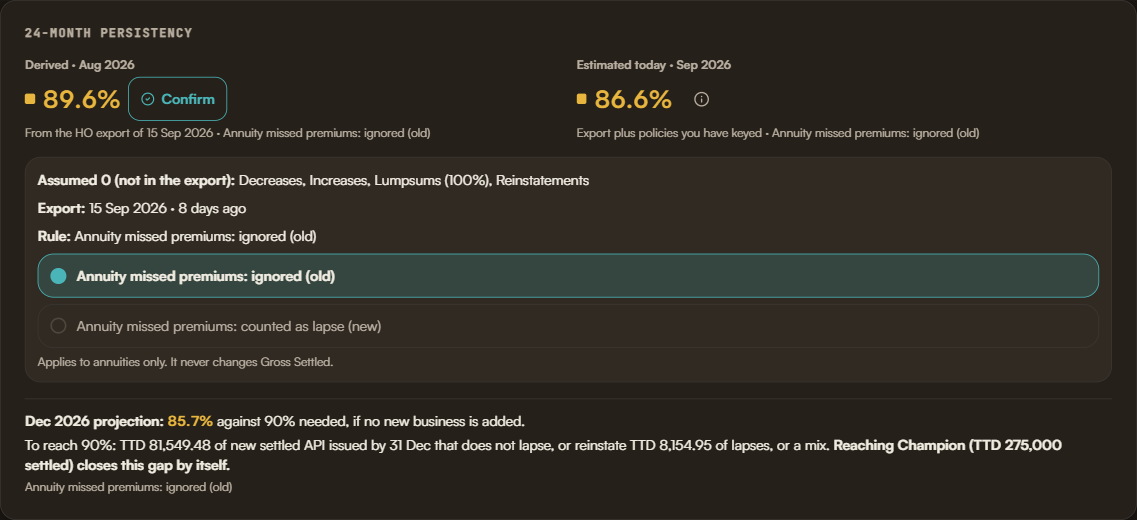
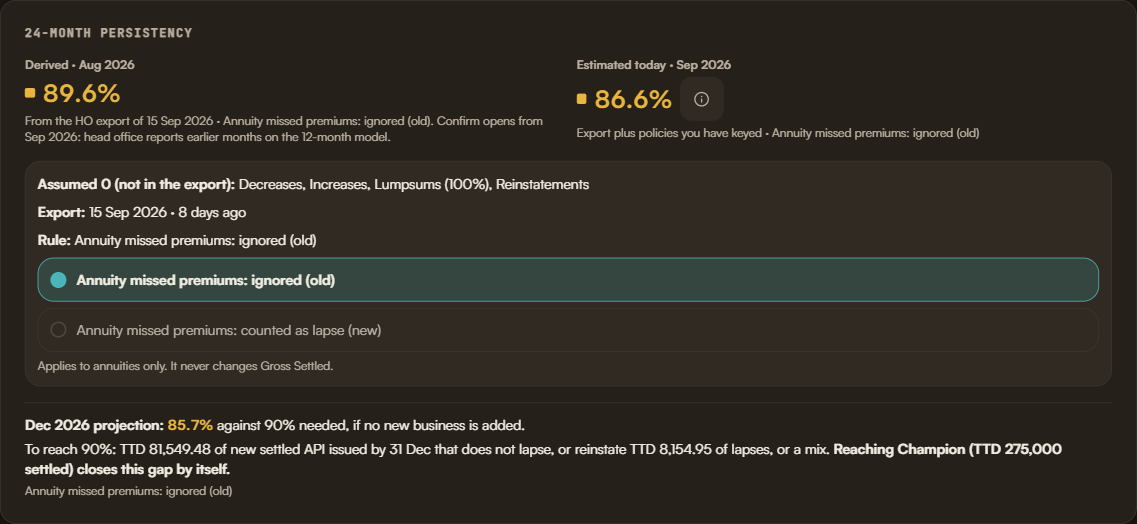
fix(persistency): Confirm only on 24-month-model months (dispatcher ruling B)
The derived figure is always a 24-month-window figure, but head office reports
months before September 2026 on the 12-month model, so the two cannot be checked
against each other. `derived.confirmable` is now `isTwentyFourMonthModel(month)`:
the tab hides Confirm for August and says why, and the sheet refuses to render
for a non-confirmable month.

Smoke re-run, read-only, light + dark: 24 PASS / 0 FAIL (Confirm absent on
August, reason shown). Screenshots refreshed.

diff --git a/src/components/persistency/__tests__/PersistencyOutlook.test.jsx b/src/components/persistency/__tests__/PersistencyOutlook.test.jsx
@@ -28,6 +28,9 @@ const BOOK = [
   imported('P-C1', '2025-06-10', 'settled', 161581.20),
   imported('P-C2', '2025-06-12', 'lapsed', 27014.52),
 ];
+// The same book on an October export: the derived month is September, the
+// first month on the 24-month model, so it can be confirmed.
+const BOOK_OCT = BOOK.map((d) => ({ ...d, exportDate: '2026-10-15' }));
 const GATE = { monthKey: '2026-12', threshold: 90 };
 const outlookOf = (records = []) => buildPersistencyOutlook({
   policies: BOOK, records, today: '2026-09-23', gate: GATE,
@@ -50,12 +53,15 @@ const CAMPAIGN = {
 beforeEach(() => { savePersistency.mockClear(); });
 
 describe('PersistencyOutlookHero', () => {
-  it('shows Derived Aug 89.6% with Confirm, Estimated today 86.6%, Dec 85.7% and the gap sentence', () => {
-    render(<PersistencyOutlookHero outlook={outlookOf()} canConfirm onConfirm={() => {}} />);
+  it('shows Derived Aug 89.6% (no Confirm, with the reason), Estimated today 86.6%, Dec 85.7% and the gap sentence', () => {
+    const o = outlookOf();
+    render(<PersistencyOutlookHero outlook={o} canConfirm={o.derived.confirmable} onConfirm={() => {}} />);
     expect(screen.getByTestId('persistency-outlook-derived').textContent).toContain('Derived · Aug 2026');
     expect(screen.getByTestId('persistency-outlook-derived-pct').textContent).toBe('89.6%');
     expect(screen.getByTestId('persistency-outlook-derived-pct').className).toContain('text-warning-ink');
-    expect(screen.getByTestId('persistency-outlook-confirm')).toBeInTheDocument();
+    expect(screen.queryByTestId('persistency-outlook-confirm')).not.toBeInTheDocument();
+    expect(screen.getByTestId('persistency-outlook-derived').textContent)
+      .toContain('Confirm opens from Sep 2026: head office reports earlier months on the 12-month model.');
     expect(screen.getByTestId('persistency-outlook-estimate-pct').textContent).toBe('86.6%');
     expect(screen.getByTestId('persistency-outlook-gate-pct').textContent).toBe('85.7%');
     const gap = screen.getByTestId('persistency-outlook-gap').textContent;
@@ -89,8 +95,25 @@ describe('PersistencyOutlookHero', () => {
 });
 
 describe('ConfirmPersistencySheet — choice 1 writes ho_confirmed, then the gate prefers it', () => {
+  it('renders nothing for August — a 12-month-model month cannot be confirmed', () => {
+    const { container } = render(
+      <ConfirmPersistencySheet
+        tenantId="t1" agentUid="u1" writerUid="u1" writerRole="agent"
+        derived={outlookOf().derived} onClose={() => {}} onSaved={() => {}}
+      />,
+    );
+    expect(container.firstChild).toBeNull();
+  });
+
   it('blocks the save until every manual input is answered; zero is an answer', async () => {
-    const derived = outlookOf().derived;
+    const octOutlook = (records = []) => buildPersistencyOutlook({
+      policies: BOOK_OCT, records, today: '2026-10-20', gate: GATE,
+    });
+    const derived = octOutlook().derived;
+    expect(derived.monthKey).toBe('2026-09');
+    const hero = render(<PersistencyOutlookHero outlook={octOutlook()} canConfirm={derived.confirmable} onConfirm={() => {}} />);
+    expect(screen.getByTestId('persistency-outlook-confirm')).toBeInTheDocument();
+    hero.unmount();
     render(
       <ConfirmPersistencySheet
         tenantId="t1" agentUid="u1" writerUid="u1" writerRole="agent"
@@ -99,26 +122,27 @@ describe('ConfirmPersistencySheet — choice 1 writes ho_confirmed, then the gat
     );
     const button = screen.getByTestId('confirm-matches-button');
     expect(button).toBeDisabled();
-    // August is on the legacy model: three manual inputs, no Decreases.
-    expect(screen.queryByTestId('confirm-input-decreases')).not.toBeInTheDocument();
-    for (const id of ['incPPPs', 'lumpsums100', 'reinstatements']) {
+    // September is on the 24-month model: all four manual inputs, Decreases included.
+    for (const id of ['decreases', 'incPPPs', 'lumpsums100']) {
       fireEvent.change(screen.getByTestId(`confirm-input-${id}`), { target: { value: '0' } });
     }
-    expect(screen.getByTestId('confirm-will-save').textContent).toContain('89.6%');
+    expect(button).toBeDisabled(); // Reinstatements still blank
+    fireEvent.change(screen.getByTestId('confirm-input-reinstatements'), { target: { value: '0' } });
+    expect(screen.getByTestId('confirm-will-save').textContent).toContain('86.6%');
     expect(button).not.toBeDisabled();
     fireEvent.click(button);
     await waitFor(() => expect(savePersistency).toHaveBeenCalledTimes(1));
 
     const [tenantId, monthKey, agentUid, inputs, role, provenance] = savePersistency.mock.calls[0];
-    expect([tenantId, monthKey, agentUid, role]).toEqual(['t1', '2026-08', 'u1', 'agent']);
+    expect([tenantId, monthKey, agentUid, role]).toEqual(['t1', '2026-09', 'u1', 'agent']);
     expect(inputs).toEqual({
-      businessPlaced: 296457.24, notTakens: 0, lapses: 30878.88,
-      incPPPs: 0, lumpsums100: 0, reinstatements: 0,
+      businessPlaced: 210975.24, notTakens: 0, lapses: 28196.88,
+      decreases: 0, incPPPs: 0, lumpsums100: 0, reinstatements: 0,
     });
     expect(provenance).toMatchObject({
       source: 'ho_confirmed',
       confirmedBy: 'u1',
-      ledgerExportDate: '2026-09-15',
+      ledgerExportDate: '2026-10-15',
       ledgerWindowMonths: 24,
       annuityMissedPremiumRule: 'ignore',
       manualConfirmedBy: 'u1',
@@ -130,13 +154,12 @@ describe('ConfirmPersistencySheet — choice 1 writes ho_confirmed, then the gat
     const saved = {
       monthKey, ...inputs, ...deriveAll(inputs), ...provenance,
     };
-    const after = outlookOf([saved]);
-    expect(after.headline).toMatchObject({ kind: 'confirmed', monthKey: '2026-08', source: 'ho_confirmed' });
+    const after = octOutlook([saved]);
+    expect(after.headline).toMatchObject({ kind: 'confirmed', monthKey: '2026-09', source: 'ho_confirmed' });
 
-    render(<CampaignHeroCard campaign={CAMPAIGN} policies={BOOK} persistencyRecords={[saved]} />);
+    render(<CampaignHeroCard campaign={CAMPAIGN} policies={BOOK_OCT} persistencyRecords={[saved]} />);
     const row = screen.getByTestId('campaign-hero-row-persistency');
-    expect(row.textContent).toContain('89.6%');
-    expect(row.textContent).toContain('confirmed');
+    expect(row.textContent).toContain('86.6% confirmed, Sep 2026');
   });
 });
 

diff --git a/src/components/persistency/PersistencyOutlookHero.jsx b/src/components/persistency/PersistencyOutlookHero.jsx
@@ -130,7 +130,10 @@ export default function PersistencyOutlookHero({
             label={`Derived · ${outlookMonthLabel(derived.monthKey)}`}
             pct={formatOutlookPct(derived.persistency)}
             tone={persistencyTone(derived.persistency, { threshold })}
-            caption={`From the HO export of ${outlookDateLabel(derived.exportDate)} · ${derived.annuityRuleLabel}`}
+            caption={[
+              `From the HO export of ${outlookDateLabel(derived.exportDate)} · ${derived.annuityRuleLabel}`,
+              derived.confirmable ? null : 'Confirm opens from Sep 2026: head office reports earlier months on the 12-month model.',
+            ].filter(Boolean).join('. ')}
             testId="persistency-outlook-derived"
           >
             {canConfirm && (

diff --git a/src/lib/persistency/__tests__/persistencyOutlook.test.js b/src/lib/persistency/__tests__/persistencyOutlook.test.js
@@ -68,6 +68,16 @@ describe('persistencyOutlook — Kyron shape reproduces the probe table', () => 
     expect(o.gateMonth.gap.reinstateNeeded).toBe(8154.95);
   });
 
+  it('August is not confirmable (12-month model at HO); September is', () => {
+    expect(o.derived.confirmable).toBe(false);
+    const oct = outlookFor(
+      KYRON_SHAPE.map((d) => ({ ...d, exportDate: '2026-10-15' })),
+      { today: '2026-10-20' },
+    );
+    expect(oct.derived.monthKey).toBe('2026-09');
+    expect(oct.derived.confirmable).toBe(true);
+  });
+
   it('the headline is the derived month when nothing is confirmed', () => {
     expect(o.confirmed).toBeNull();
     expect(o.headline).toMatchObject({ kind: 'derived', monthKey: '2026-08' });

diff --git a/src/components/agent/PersistencyTab.jsx b/src/components/agent/PersistencyTab.jsx
@@ -148,9 +148,10 @@ export default function PersistencyTab({ onViewLapsedPolicies, activeCampaigns =
     }
   }, [ledgerDocs, history, campaign, annuityRule]);
 
-  // Confirm is offered only for a derived month nobody has saved yet — a saved
-  // record (by the agent or a manager) is already the confirmed figure.
-  const canConfirm = Boolean(outlook?.derived)
+  // Confirm is offered only for a derived month on the 24-month model that
+  // nobody has saved yet — a saved record (by the agent or a manager) is
+  // already the confirmed figure.
+  const canConfirm = Boolean(outlook?.derived?.confirmable)
     && !history.some((r) => r.monthKey === outlook.derived.monthKey);
 
   const recordByMonth = useMemo(() => {

diff --git a/src/lib/persistency/persistencyOutlook.js b/src/lib/persistency/persistencyOutlook.js
@@ -242,7 +242,11 @@ export function buildPersistencyOutlook({
       records,
       source: HO_EXPORT_SOURCE,
     });
-    derived = fig.counted > 0 ? fig : null;
+    // Confirmable only on a 24-month-model month (dispatcher ruling, 23 Sep
+    // 2026). The derived figure is always a 24-month-window figure; a
+    // pre-September HO report is on the 12-month model, so the two cannot be
+    // checked against each other.
+    derived = fig.counted > 0 ? { ...fig, confirmable: isTwentyFourMonthModel(fig.monthKey) } : null;
   }
 
   let estimateToday = null;

diff --git a/src/components/persistency/ConfirmPersistencySheet.jsx b/src/components/persistency/ConfirmPersistencySheet.jsx
@@ -53,7 +53,8 @@ export default function ConfirmPersistencySheet({
 
   const willSave = gate.canSave && numericInputs ? deriveAll(numericInputs).persistency : null;
 
-  if (!derived) return null;
+  // Only a 24-month-model month can be checked against the HO report.
+  if (!derived?.confirmable) return null;
 
   const handleSave = async () => {
     if (!gate.canSave) {
